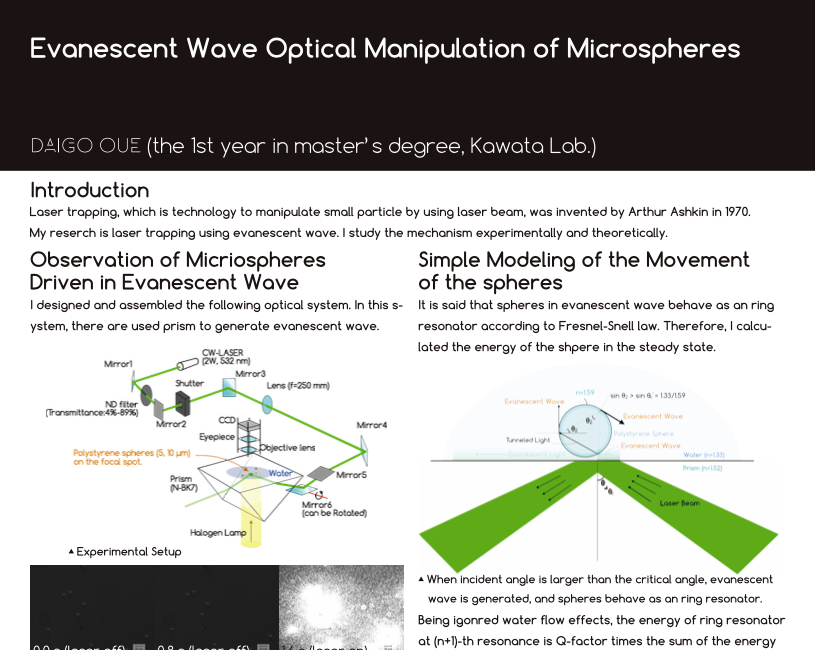
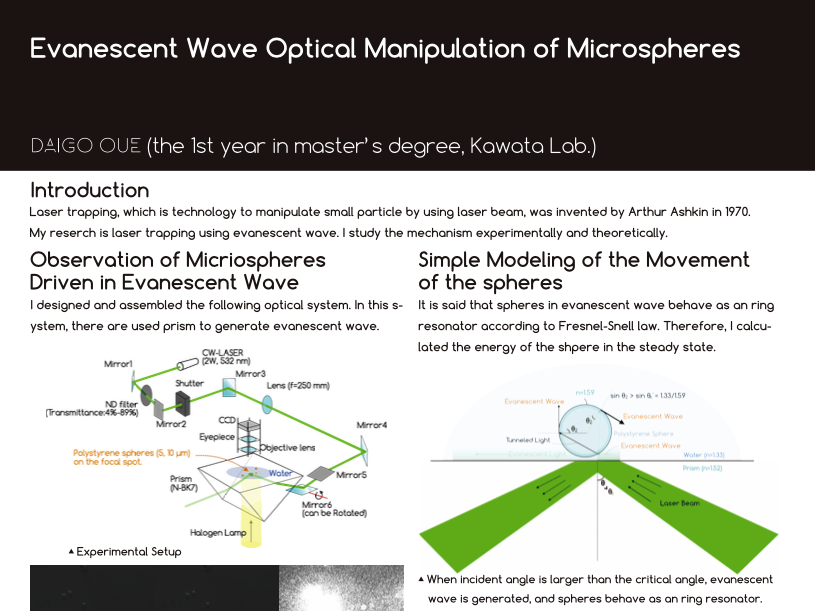
footer on works

Changed region(s): [[0.0, 0.2177, 1.0, 1.0], [0.0307, 0.0311, 0.9202, 0.0933]]

diff --git a/mk3/works.html b/mk3/works.html
@@ -33,6 +33,7 @@ $(function() {
 window.onload = function() {
   document.getElementById('load').style.display = 'none';
   document.getElementById('main').style.display = 'block';
+  document.getElementById('main2').style.display = 'block';
 }
     </script>
 
@@ -242,7 +243,7 @@ ga('send', 'pageview');
       </div>
     </div>
 
-    <div class="footer" id="main">
+    <div class="footer" id="main2">
       <div class="copyright">©<span class="sign">DAIGO OUE</span>. All Rights Reserved.</div>
       <div class="sns">
         <ul>

diff --git a/mk3/css/works.css b/mk3/css/works.css
@@ -1,3 +1,12 @@
+.mainContents{
+  border-top: #4d4d4d solid 1px;
+}
+
+.footer{
+  position: fixed;
+  bottom: 0;
+}
+
 .imageContainer{
   float:left;
   min-width: 220px;
